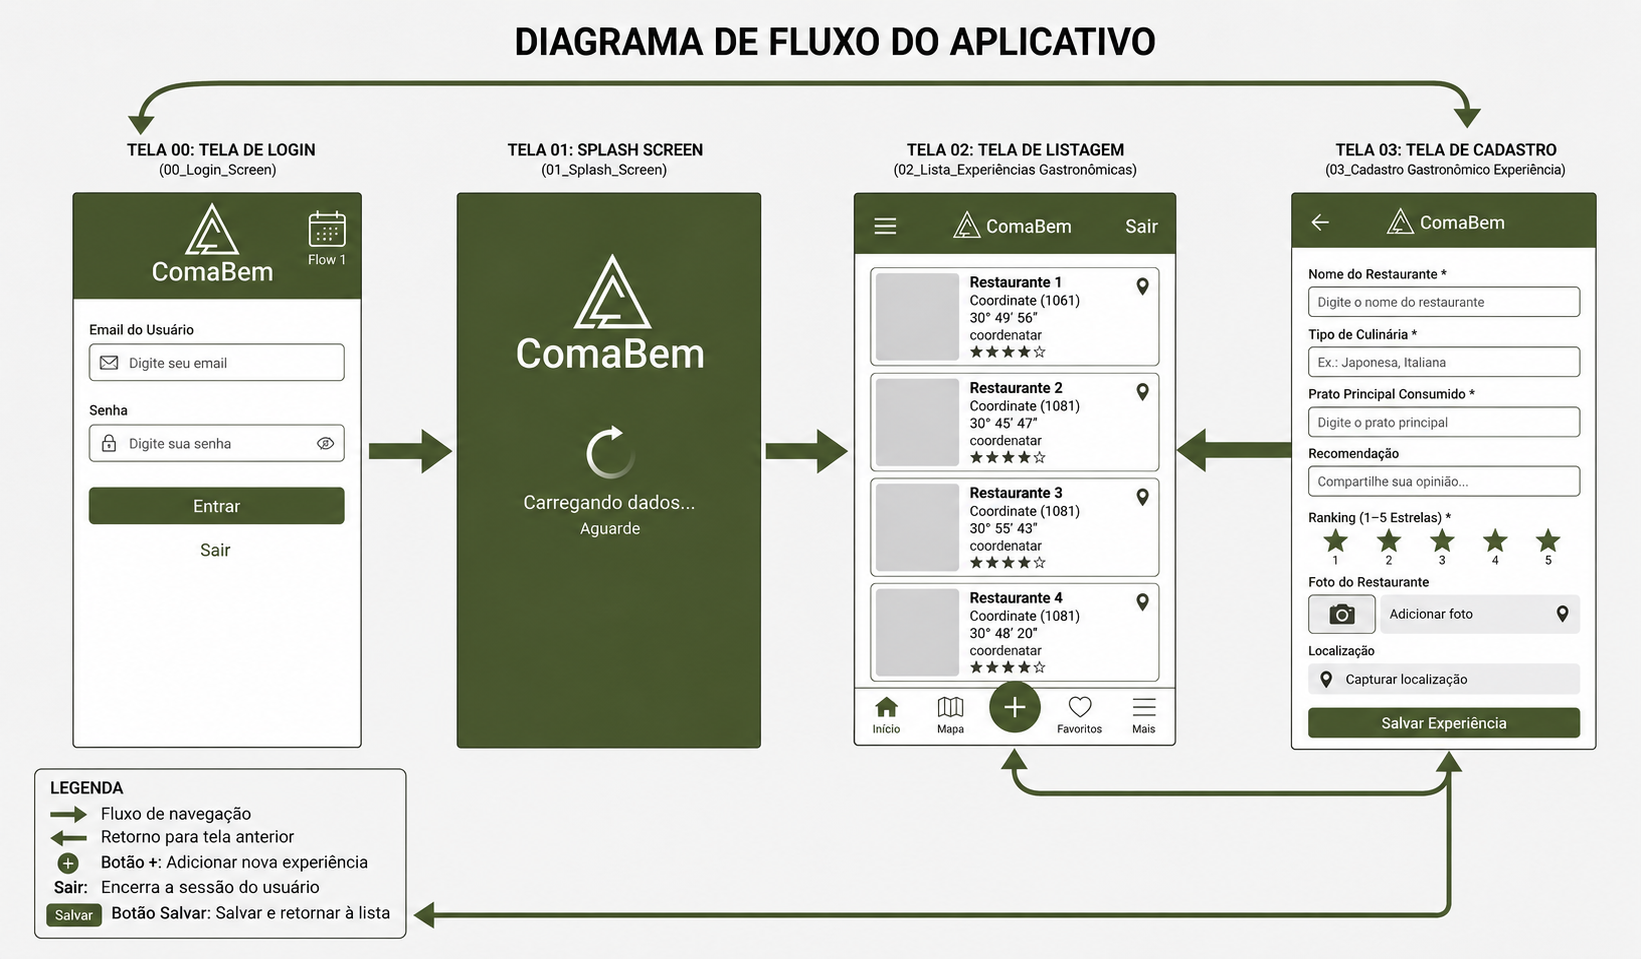
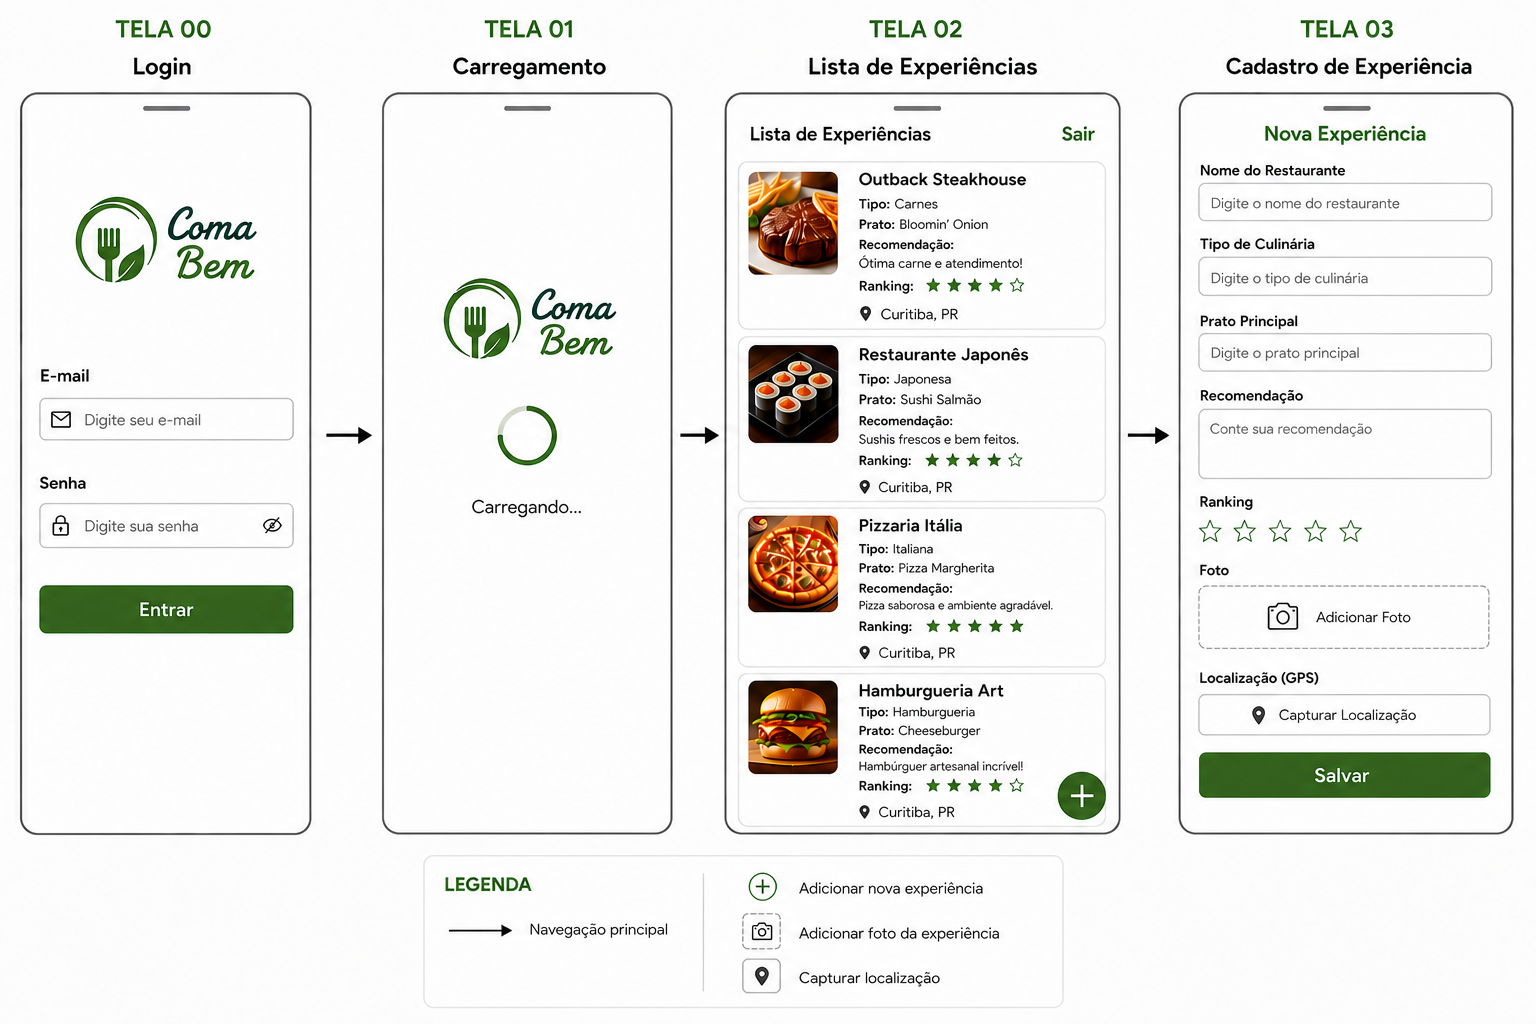
refactor(database): atualiza esquema do SQLite para alinhar com o wireframe final

diff --git a/lib/database/database_helper.dart b/lib/database/database_helper.dart
@@ -30,11 +30,12 @@ class DatabaseHelper {
     await db.execute('PRAGMA foreign_keys = ON');
   }
 
-  // Definição das Tabelas
+// Definição das Tabelas
   Future<void> _createDB(Database db, int version) async {
     const idType = 'INTEGER PRIMARY KEY AUTOINCREMENT';
     const textType = 'TEXT NOT NULL';
-    const realType = 'REAL NOT NULL';
+    const textTypeNullable = 'TEXT';
+    const realTypeNullable = 'REAL';
     const intType = 'INTEGER NOT NULL';
 
     // 1. Tabela de Usuários
@@ -46,19 +47,20 @@ class DatabaseHelper {
       )
     ''');
 
-    // 2. Tabela de Experiências (com Foreign Key ligando ao Usuario)
+    // 2. Tabela de Experiências
     await db.execute('''
       CREATE TABLE experiencias (
         id $idType,
+        usuarioId $intType,
         nomeRestaurante $textType,
         tipoCulinaria $textType,
         pratoPrincipal $textType,
         recomendacao $textType,
         ranking $intType,
-        latitude $realType,
-        longitude $realType,
-        caminhoFoto $textType,
-        usuarioId $intType,
+        caminhoFoto $textTypeNullable,
+        latitude $realTypeNullable,
+        longitude $realTypeNullable,
+        cidadeUf $textTypeNullable,
         FOREIGN KEY (usuarioId) REFERENCES usuarios (id) ON DELETE CASCADE
       )
     ''');